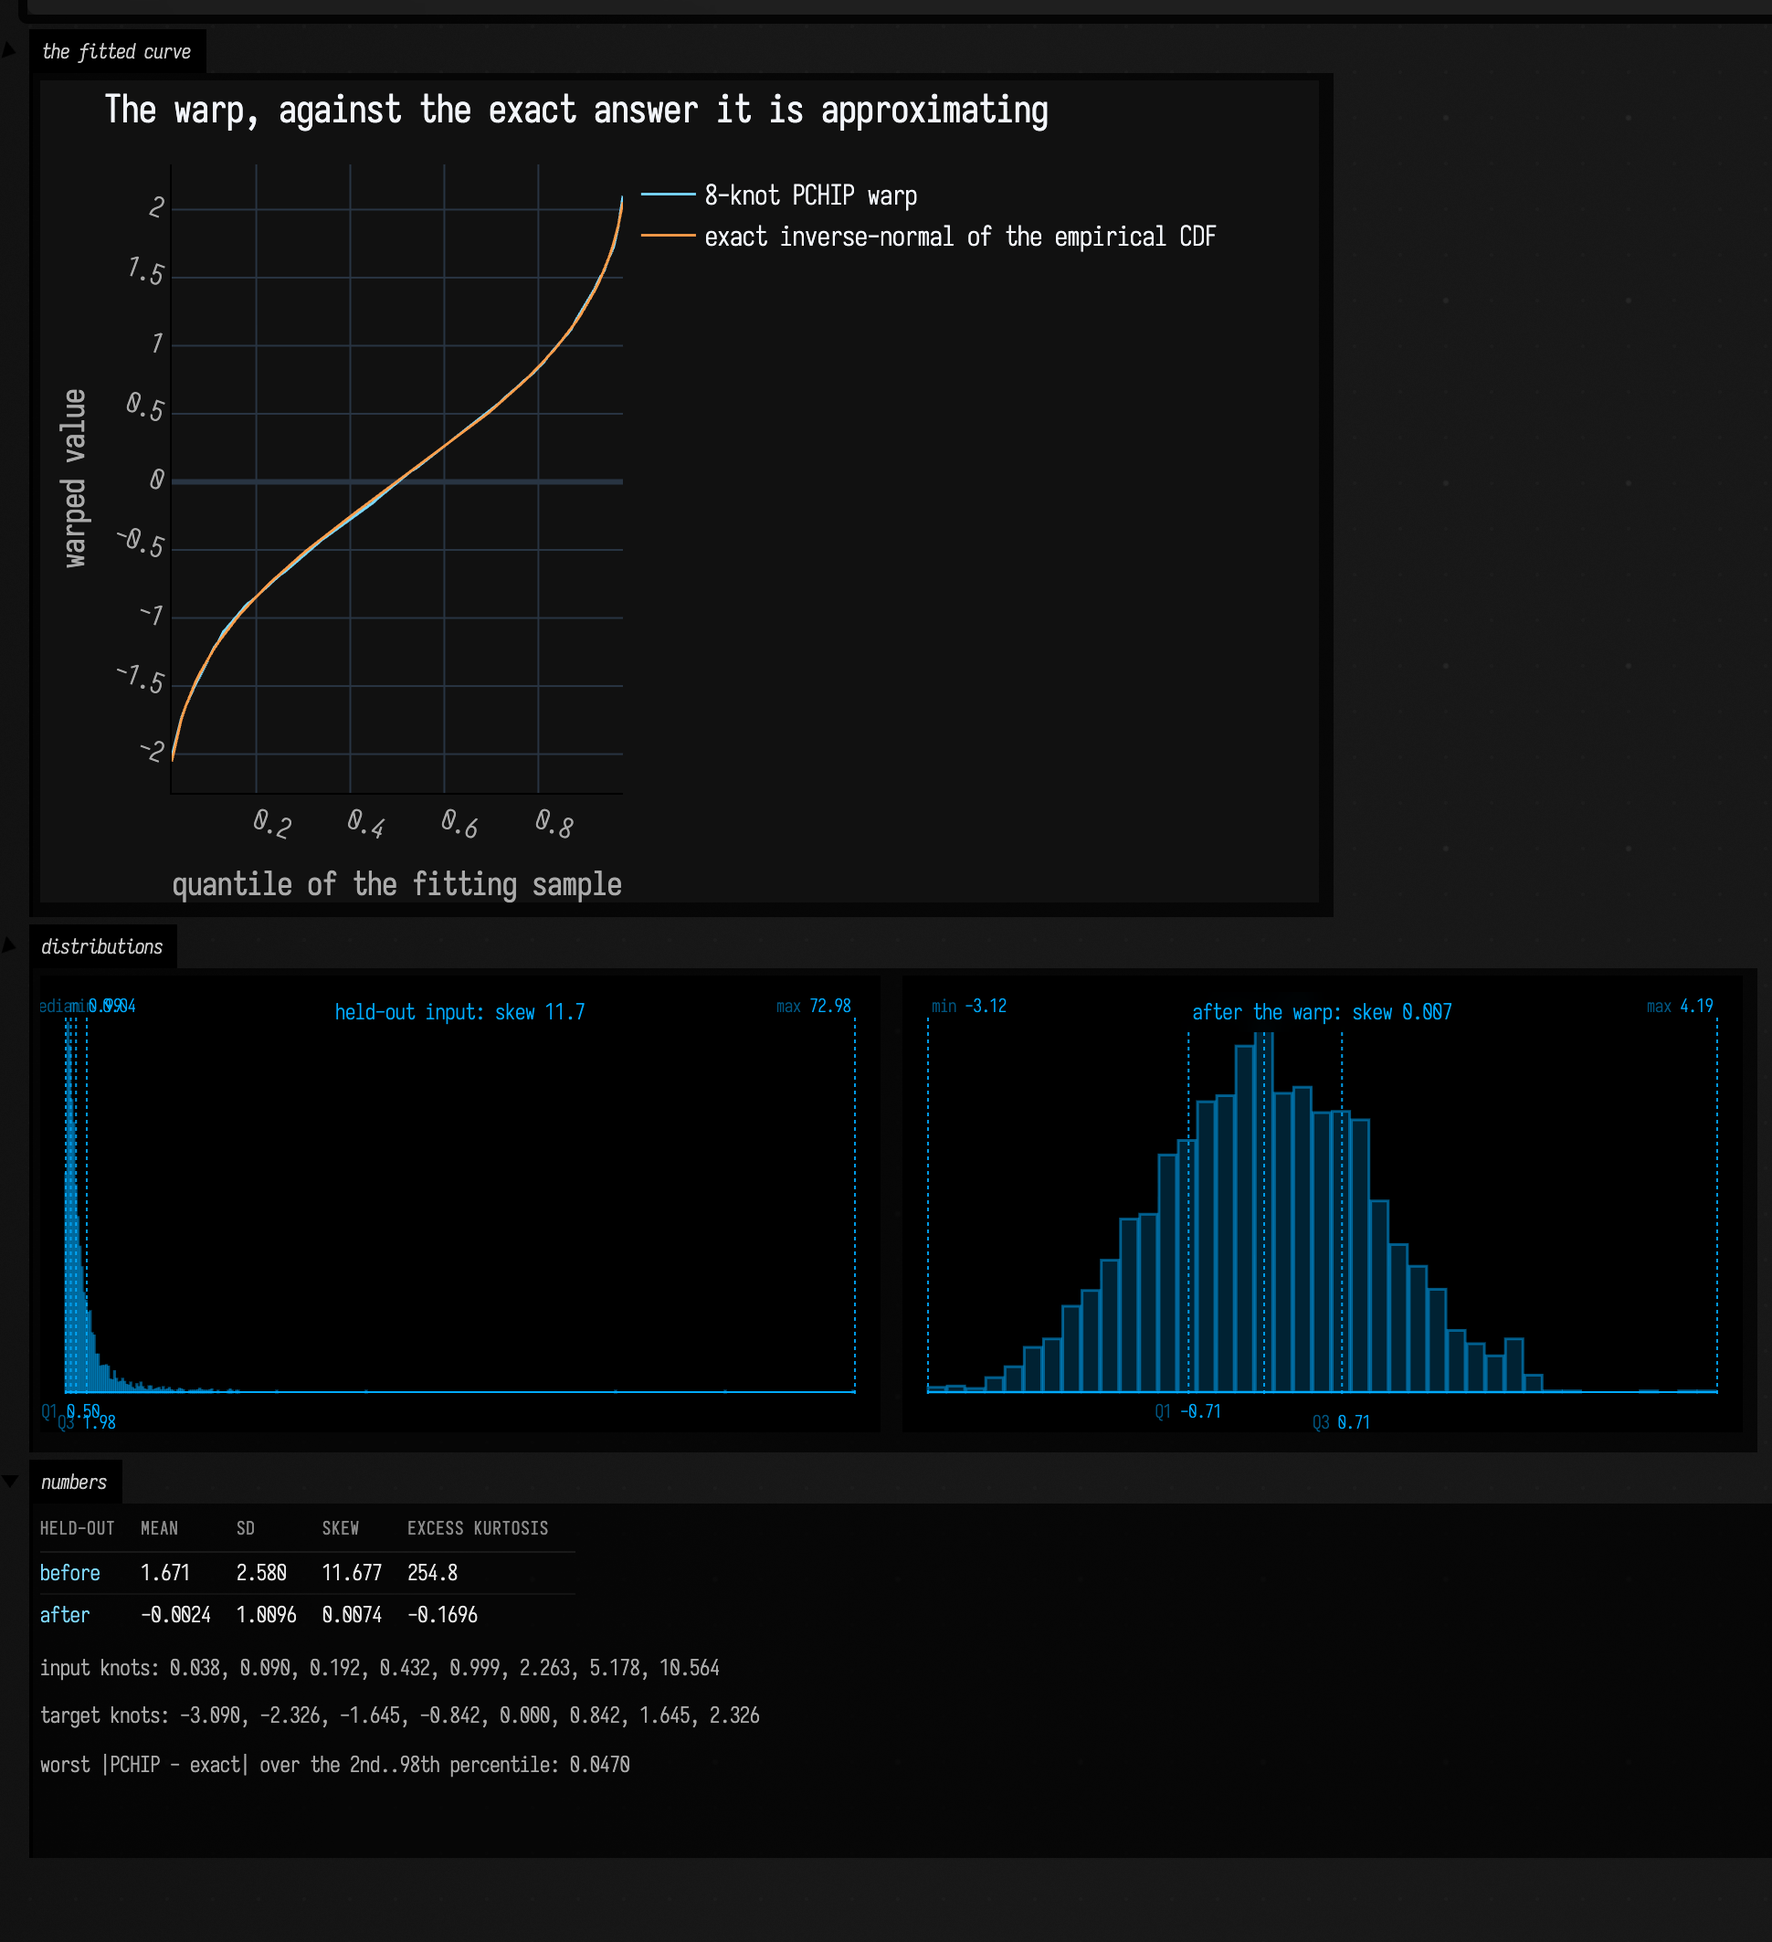
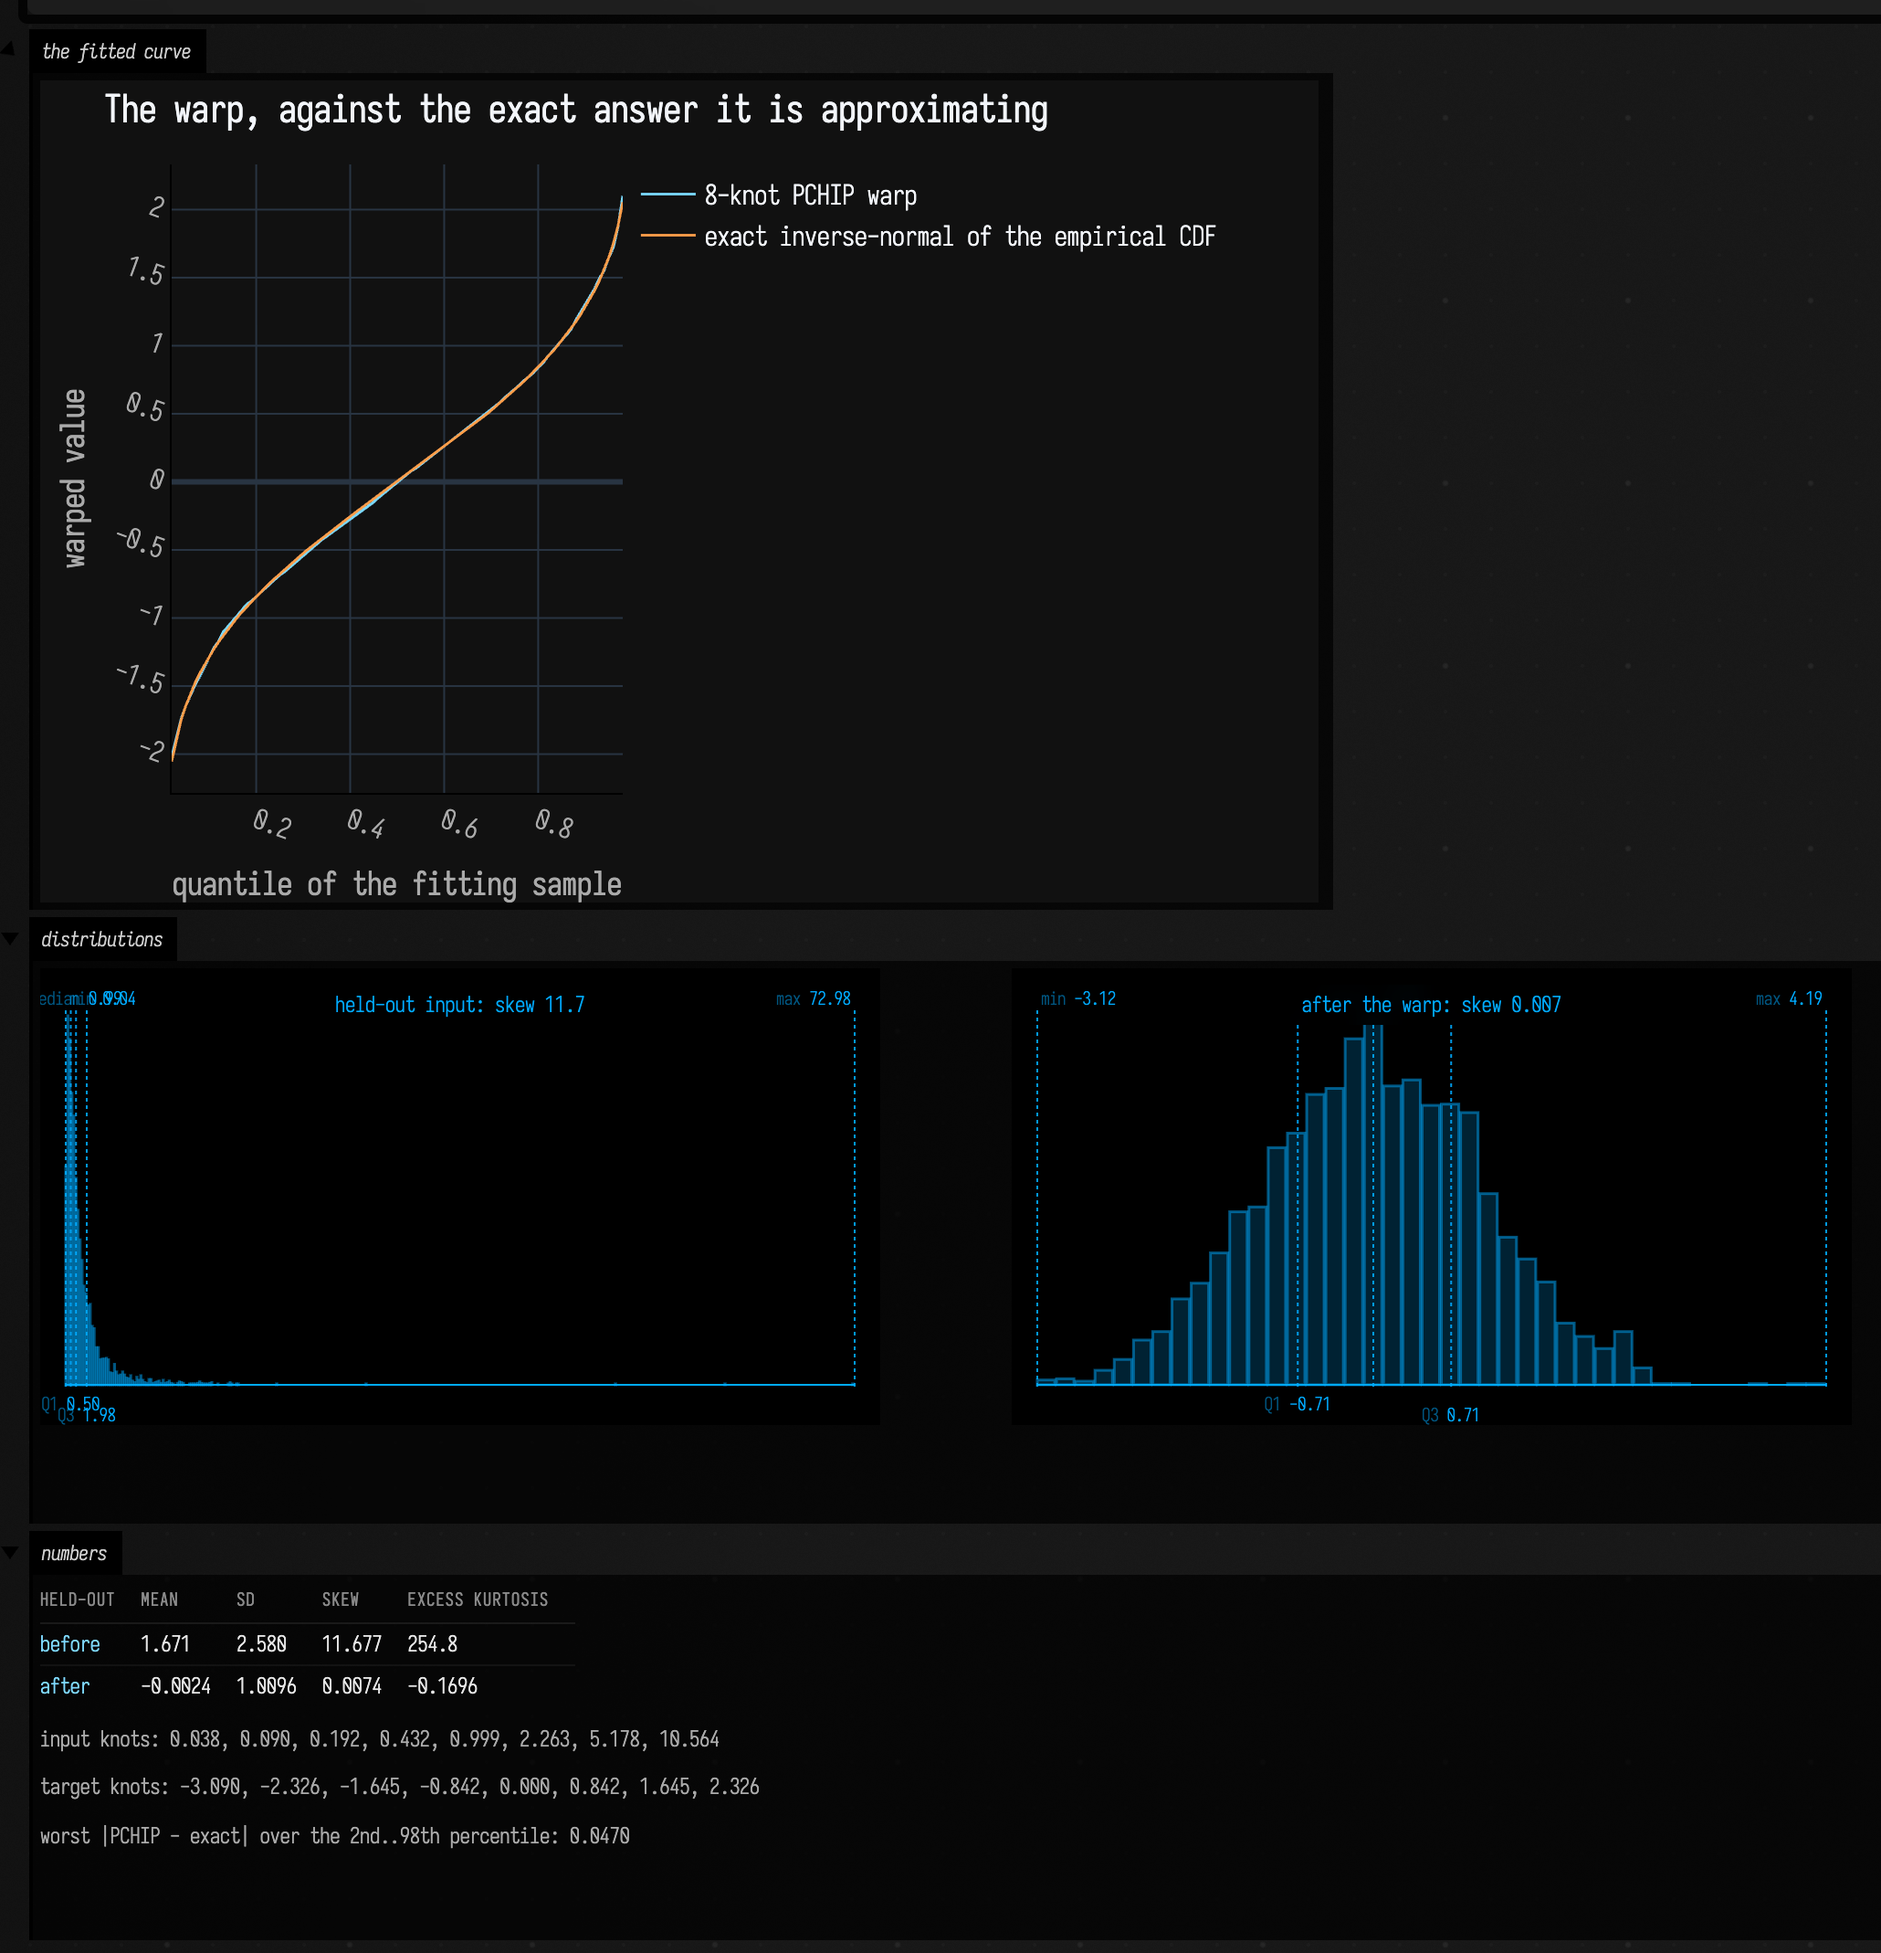
refactor(docs): the three page-side flex rows showRow was built for
The last hand-rolled `<div style='display:flex;gap:12px'>` sites, all in page code
rather than transcripts: two SVG strips in statistics_examples.md and the four-panel
imaging row in visualizers.md. No `display:flex` remains anywhere under public/docs.

visualizers.md's fence carried a measured note explaining why its row was `nowrap` —
that a fifth panel ran off the capture and a `flex-wrap:wrap` row collapsed to one
panel per line. Those observations are about markup that no longer exists, so the note
now describes what `:::row` actually is: a grid of equal-width columns
(grid-auto-flow:column, 1fr) that cannot wrap at all. The conclusion survives for a
different reason — the columns share the width, so four is still the count that stays
readable.

That page also criticises hand-built figures in prose further down while its own row
was one of them; it now practises what it preaches.

Verified: both pages re-run with continue-on-error off, all three captures looked at —
the histograms sit side by side and the four imaging panels still fit on one line,
top-aligned. docs.visualizers.imaging-panels passes, and every FIELD_TEST block on the
page still parses.

--no-verify for the same reason as the previous commit: another session's unstaged
KotlinInterface*.kt block the generated-artifact guard from verifying a staged
snapshot. Nothing generated changed here.

diff --git a/public/docs/visualizers.md b/public/docs/visualizers.md
@@ -328,10 +328,11 @@ tags: [docs, visualizers, imaging, cv]
 timeoutSec: 90
 waitSec: 1.5
 # Measured, not guessed: the captured output pane sizes itself to its CONTENT, not to the
-# box frame — setting w/h here moved the box but not the pane. So the row is `nowrap` and
-# holds four panels (~1440px); a fifth ran off the right edge of the capture, and a
-# `flex-wrap:wrap` row collapsed to one panel per line because the intrinsic width is then
-# small. ComponentLabelling has its own figure above, so four is the honest fit.
+# box frame — setting w/h here moved the box but not the pane. `showRow` lays the panels out
+# with `:::row`, which is a grid of equal-width columns (grid-auto-flow:column, 1fr) and
+# never wraps, so the wrap-collapse the hand-rolled flex row had to avoid cannot happen here.
+# The columns still share the width, so four panels is the count that stays readable, and
+# ComponentLabelling has its own figure above.
 w: 1120
 h: 420
 expect:
@@ -356,16 +357,15 @@ val scene = Img.generateRGB(180, 132) { x, y ->
 }
 val gray = scene.luma()
 
-// Four stages of one pipeline, four different value types, one `.h` each. A flex row
-// keeps them in a single output channel instead of four tall ones.
+// Four stages of one pipeline, four different value types, one `.h` each. showRow keeps
+// them in a single output channel instead of four tall ones.
 val panels = listOf(
     scene.h,                                                // direct mode, 3 channels
     gray.sobel().dx.h,                                      // signed -> coolwarm diverging
     gray.gaussianPyramid(4).h,                              // rungs at true relative scale
     gray.harrisCorners(minDistance = 6, maxCount = 20).h    // scatter, strength-coded
 )
-display("panels", "<div style='display:flex;gap:14px;flex-wrap:nowrap;align-items:flex-start'>" +
-    panels.joinToString("") + "</div>")
+showRow("panels", panels)
 
 println("imaging visualizers ready")
 ```

diff --git a/public/docs/statistics_examples.md b/public/docs/statistics_examples.md
@@ -150,7 +150,7 @@ val svgs = listOf(
     histogramToSvg(buildHistogram(skewed), widthPx = 470, heightPx = 270, padTop = 26, title = "exp(0.6 g), n=500", decimals = 3),
     histogramToSvg(buildHistogram(bimodal), widthPx = 470, heightPx = 270, padTop = 26, title = "two modes at -2 and +2, n=500", decimals = 3),
 )
-display("histograms", "<div style='display:flex;gap:12px'>" + svgs.joinToString("") { "<div>$it</div>" } + "</div>")
+showRow("histograms", svgs)
 markdown("the rule, re-derived", """
     {muted:$skewedNote}
 
@@ -590,7 +590,7 @@ val svgs = listOf(
         title = "after the warp: skew ${"%.3f".format(after.skewness)}",
     ),
 )
-display("distributions", "<div style='display:flex;gap:12px'>" + svgs.joinToString("") { "<div>$it</div>" } + "</div>")
+showRow("distributions", svgs)
 // before/after over the same four moments: a table says it in a quarter of the characters.
 markdown("numbers", """
     | held-out | mean | sd | skew | excess kurtosis |
